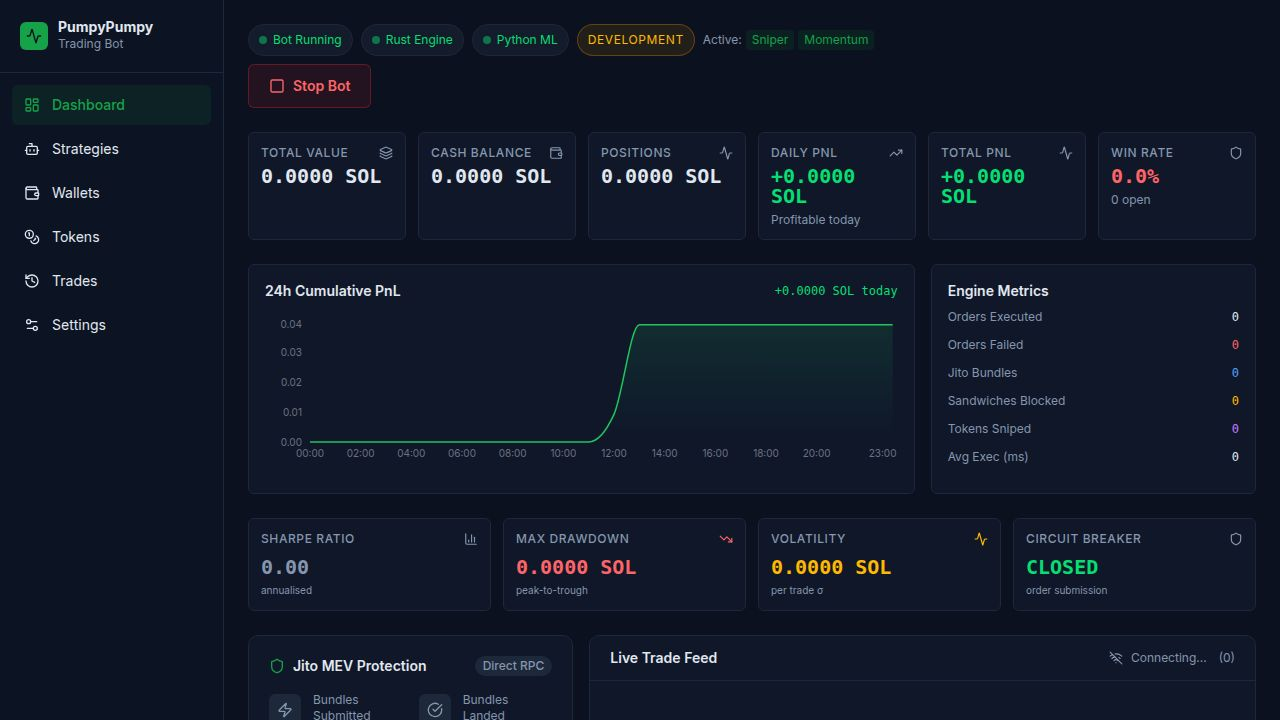
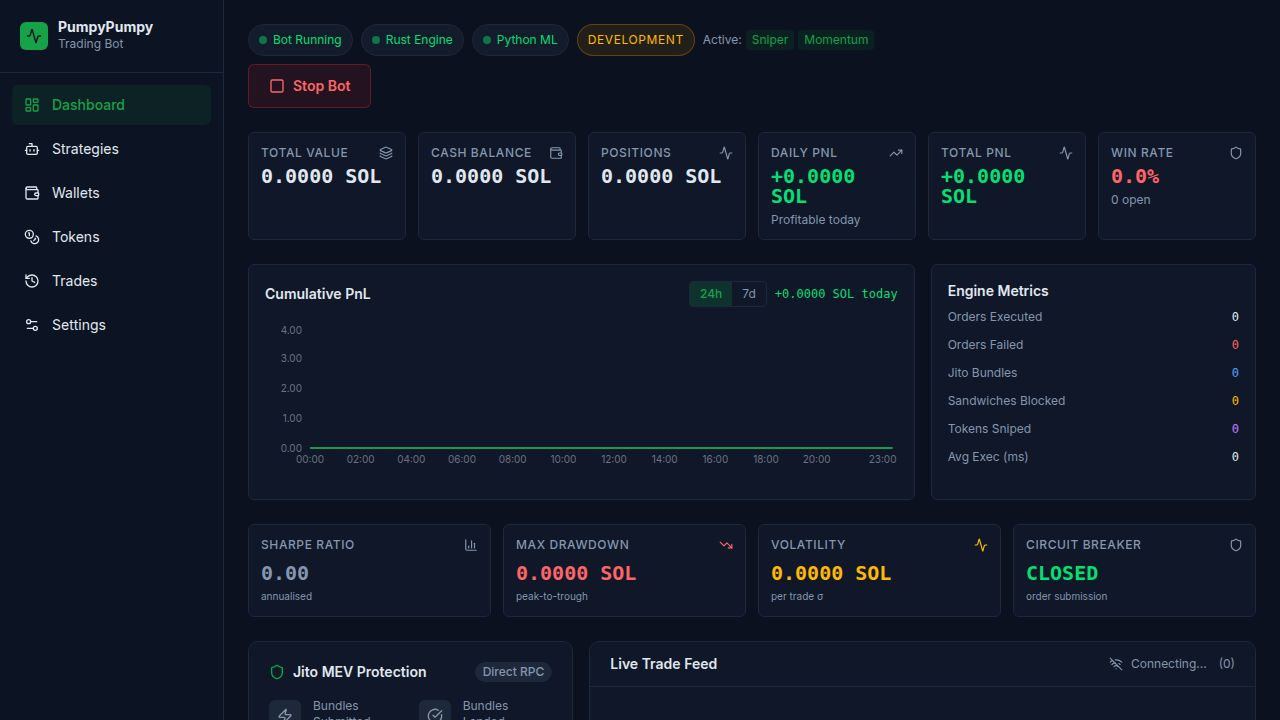
feat(task-29): complete Dashboard UX — add 24h/7d PnL chart window selector
## Task
Task #29 — Dashboard UX: offline banner, PnL chart, admin key session cache.

## State before this commit
Two of the three features were already fully implemented from prior work:
- Admin key session cache: use-admin-key.ts — sessionStorage with 1hr TTL (unchanged)
- Offline banner: OfflineBanner.tsx — amber fixed banner with auto-reconnect, integrated
  in App.tsx (unchanged)

The PnL chart existed (24h AreaChart using Recharts) but lacked the 7d time window.

## Changes made (artifacts/dashboard/src/pages/Dashboard.tsx)
1. Added `useState` import
2. Increased useListTrades limit from 200 to 500 for better 7d data coverage
3. Added `chartWindow: "24h" | "7d"` state (defaults to "24h")
4. Rewrote pnlChartData computation:
   - 24h: filters trades within last 24h, groups by hour with cutoff timestamp
   - 7d: filters trades within last 7 days, groups by calendar day label
   Both paths build a cumulative PnL series for the AreaChart
5. Updated chart header: title → "Cumulative PnL"; added 24h/7d segmented toggle
   buttons with cn() active-state highlight; daily PnL badge retained alongside

## No backend changes
All three features work with existing API endpoints as required by the task spec.

## Testing
E2e test passed: verified 24h active by default (hourly X-axis), clicked 7d (day
X-axis), clicked 24h again (hourly X-axis restored), no OfflineBanner visible.

diff --git a/artifacts/dashboard/src/pages/Dashboard.tsx b/artifacts/dashboard/src/pages/Dashboard.tsx
@@ -1,3 +1,4 @@
+import { useState } from "react";
 import { useQuery, useMutation, useQueryClient } from "@tanstack/react-query";
 import { useListTrades, getGetPortfolioQueryOptions, getGetBotStatusQueryOptions, getGetMetricsQueryOptions } from "@workspace/api-client-react";
 import { AreaChart, Area, XAxis, YAxis, Tooltip, ResponsiveContainer } from "recharts";
@@ -67,7 +68,8 @@ export default function DashboardPage() {
     refetchInterval: 10_000,
   });
 
-  const { data: tradesData } = useListTrades({ limit: 200 });
+  const { data: tradesData } = useListTrades({ limit: 500 });
+  const [chartWindow, setChartWindow] = useState<"24h" | "7d">("24h");
 
   // Advanced metrics from Python ML engine (Task #30)
   const { data: pyMetrics } = useQuery<Record<string, unknown>>({
@@ -117,19 +119,46 @@ export default function DashboardPage() {
   const ctrlPending = startBot.isPending || stopBot.isPending;
 
   const pnlChartData = (() => {
-    const hourMap: Record<string, number> = {};
     const trades = tradesData ?? [];
-    for (const t of trades) {
-      if (!t.createdAt) continue;
-      const hour = `${String(new Date(t.createdAt).getHours()).padStart(2, "0")}:00`;
-      hourMap[hour] = (hourMap[hour] ?? 0) + (t.pnlSol ?? 0);
+    const now = Date.now();
+
+    if (chartWindow === "24h") {
+      const cutoff = now - 24 * 60 * 60 * 1000;
+      const hourMap: Record<string, number> = {};
+      for (const t of trades) {
+        if (!t.createdAt) continue;
+        const d = new Date(t.createdAt);
+        if (d.getTime() < cutoff) continue;
+        const hour = `${String(d.getHours()).padStart(2, "0")}:00`;
+        hourMap[hour] = (hourMap[hour] ?? 0) + (t.pnlSol ?? 0);
+      }
+      const hours = Array.from({ length: 24 }, (_, i) => `${String(i).padStart(2, "0")}:00`);
+      let cumulative = 0;
+      return hours.map((h) => {
+        cumulative += hourMap[h] ?? 0;
+        return { time: h, pnl: cumulative };
+      });
+    } else {
+      const cutoff = now - 7 * 24 * 60 * 60 * 1000;
+      const dayMap: Record<string, number> = {};
+      for (const t of trades) {
+        if (!t.createdAt) continue;
+        const d = new Date(t.createdAt);
+        if (d.getTime() < cutoff) continue;
+        const day = d.toLocaleDateString("en-US", { month: "short", day: "numeric" });
+        dayMap[day] = (dayMap[day] ?? 0) + (t.pnlSol ?? 0);
+      }
+      const days: string[] = [];
+      for (let i = 6; i >= 0; i--) {
+        const d = new Date(now - i * 24 * 60 * 60 * 1000);
+        days.push(d.toLocaleDateString("en-US", { month: "short", day: "numeric" }));
+      }
+      let cumulative = 0;
+      return days.map((day) => {
+        cumulative += dayMap[day] ?? 0;
+        return { time: day, pnl: cumulative };
+      });
     }
-    const hours = Array.from({ length: 24 }, (_, i) => `${String(i).padStart(2, "0")}:00`);
-    let cumulative = 0;
-    return hours.map((h) => {
-      cumulative += hourMap[h] ?? 0;
-      return { time: h, pnl: cumulative };
-    });
   })();
 
   const activeStrategies = status?.activeStrategies ?? [];
@@ -238,12 +267,30 @@ export default function DashboardPage() {
       <div className="grid grid-cols-1 lg:grid-cols-3 gap-4">
         <div className="lg:col-span-2 bg-card border border-border rounded-lg p-4">
           <div className="flex items-center justify-between mb-4">
-            <h2 className="text-sm font-semibold">24h Cumulative PnL</h2>
-            <span className={cn("text-xs font-medium tabular-nums",
-              pnl >= 0 ? "text-green-400" : "text-red-400"
-            )}>
-              {formatPnl(pnl)} today
-            </span>
+            <h2 className="text-sm font-semibold">Cumulative PnL</h2>
+            <div className="flex items-center gap-2">
+              <div className="flex rounded-md overflow-hidden border border-border text-xs">
+                {(["24h", "7d"] as const).map((w) => (
+                  <button
+                    key={w}
+                    onClick={() => setChartWindow(w)}
+                    className={cn(
+                      "px-2.5 py-1 transition-colors",
+                      chartWindow === w
+                        ? "bg-primary/20 text-primary font-medium"
+                        : "text-muted-foreground hover:text-foreground"
+                    )}
+                  >
+                    {w}
+                  </button>
+                ))}
+              </div>
+              <span className={cn("text-xs font-medium tabular-nums",
+                pnl >= 0 ? "text-green-400" : "text-red-400"
+              )}>
+                {formatPnl(pnl)} today
+              </span>
+            </div>
           </div>
           <ResponsiveContainer width="100%" height={160}>
             <AreaChart data={pnlChartData}>
